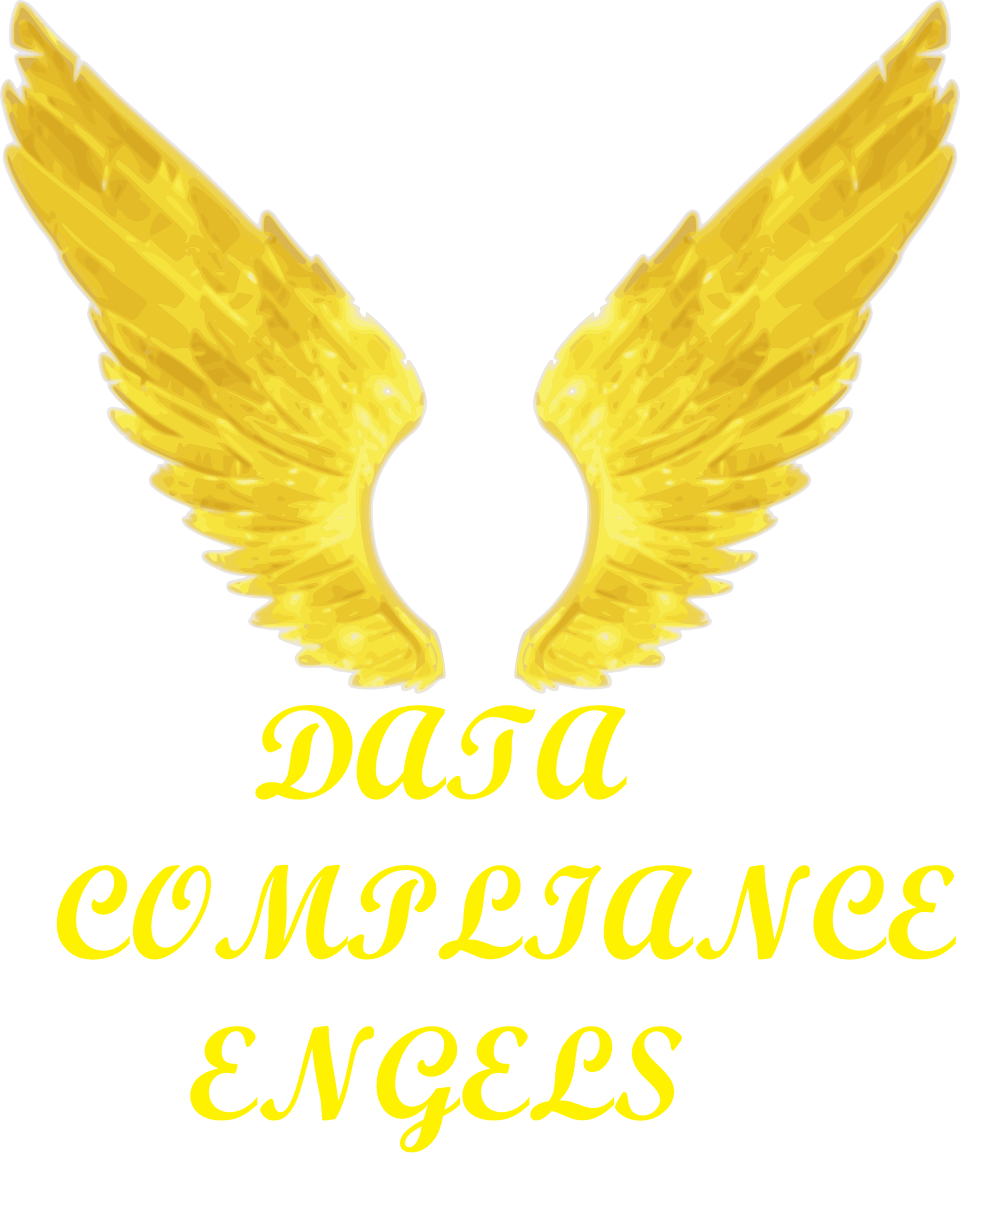
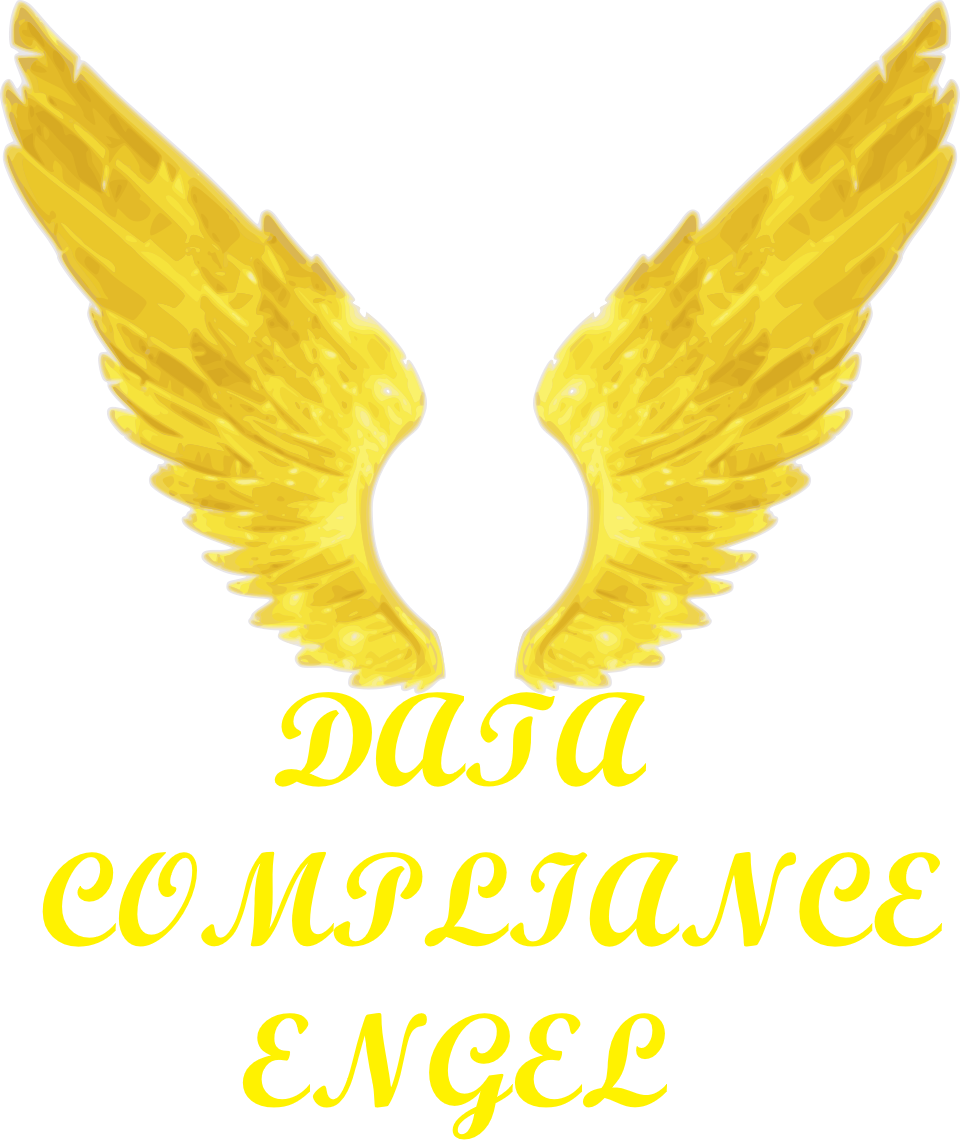
Typo korrigiert
Ein wichtiger Typo korrigiert.

Changed region(s): [[0.0312, 0.0, 1.0, 1.0], [0.0, 0.0306, 0.125, 0.2142], [0.125, 0.1836, 0.1562, 0.2142]]

diff --git a/about.html b/about.html
@@ -2,16 +2,16 @@
 <html lang="de">
 <head>
     <meta charset="UTF-8">
-    <title>Über uns – DataCompliance Engels</title>
+    <title>Über uns – DataCompliance Engel</title>
     <meta name="viewport" content="width=device-width, initial-scale=1.0">
     <link rel="stylesheet" href="style.css">
 </head>
 <body>
 
 <header class="site-header">
-    <img src="CC0AngelIcons-WikiCommons.png" alt="Logo DataCompliance Engels" class="logo">
+    <img src="CC0AngelIcons-WikiCommons.png" alt="Logo DataCompliance Engel" class="logo">
     <div class="header-text">
-        <h1>DataCompliance Engels</h1>
+        <h1>DataCompliance Engel</h1>
         <p>Transparenz. Rechtssicherheit. Einfachheit.</p>
     </div>
 </header>
@@ -25,28 +25,28 @@
 </nav>
 
 <main>
-    <h2>Über DataCompliance Engels</h2>
+    <h2>Über DataCompliance Engel</h2>
 
     <p>
-        DataCompliance Engels ist ein österreichisches Software-Start-Up mit Fokus auf rechtssichere und leicht verständliche Compliance-Lösungen für kleine 
-        und mittlere Unternehmen. DataCompliance Engels hat derzeit 67 Mitarbeitende.
+        DataCompliance Engel ist ein österreichisches Software-Start-Up mit Fokus auf rechtssichere und leicht verständliche Compliance-Lösungen für kleine 
+        und mittlere Unternehmen. DataCompliance Engel hat derzeit 67 Mitarbeitende.
     </p>
 
     <h3>Unsere Marken</h3>
 
     <ul>
-        <li><strong>Wortmarke:</strong> DataCompliance Engels</li>
-        <li><strong>Bildmarke:</strong> Engelsmotiv kombiniert mit dem Firmennamen "DataCompliance Engels" (CC0 Icon)</li>
+        <li><strong>Wortmarke:</strong> DataCompliance Engel</li>
+        <li><strong>Bildmarke:</strong> Engelsmotiv kombiniert mit dem Firmennamen "DataCompliance Engel" (CC0 Icon)</li>
         <li><strong>Farbmarke:</strong> Dunkelblau und Türkis</li>
     </ul>
 
     <p>
-        Der Name „DataCompliance Engels“ steht für einen kontinuierlichen, verständlichen Umgang mit rechtlichen Anforderungen im Unternehmensalltag.
+        Der Name „DataCompliance Engel“ steht für einen kontinuierlichen, verständlichen Umgang mit rechtlichen Anforderungen im Unternehmensalltag.
     </p>
 
     <h3>Wort-Bild-Marke (Logo)</h3>
     <p>
-    Die Wort-Bild-Marke kombiniert das Engelsmotiv aus dem Public-Domain-Bild mit dem Firmennamen DataCompliance Engels. 
+    Die Wort-Bild-Marke kombiniert das Engelsmotiv aus dem Public-Domain-Bild mit dem Firmennamen DataCompliance Engel. 
     Sie symbolisiert Schutz, Vertrauen und Rechtssicherheit im Umgang mit Daten und dient als visuelle Identität meines fiktiven Start-Ups.
     </p>
 

diff --git a/datenschutz.html b/datenschutz.html
@@ -2,15 +2,15 @@
 <html lang="de">
 <head>
     <meta charset="UTF-8">
-    <title>Datenschutz – DataCompliance Engels</title>
+    <title>Datenschutz – DataCompliance Engel</title>
     <link rel="stylesheet" href="style.css">
 </head>
 <body>
 
 <header class="site-header">
-    <img src="CC0AngelIcons-WikiCommons.png" alt="Logo DataCompliance Engels" class="logo">
+    <img src="CC0AngelIcons-WikiCommons.png" alt="Logo DataCompliance Engel" class="logo">
     <div class="header-text">
-        <h1>DataCompliance Engels</h1>
+        <h1>DataCompliance Engel</h1>
         <p>Transparenz. Rechtssicherheit. Einfachheit.</p>
     </div>
 </header>
@@ -28,7 +28,7 @@
     <p>Der Schutz Ihrer personenbezogenen Daten ist uns ein besonderes Anliegen. Wir verarbeiten Ihre Daten ausschließlich auf Grundlage der gesetzlichen Bestimmungen (DSGVO, TKG 2021).</p>
 
     <h3>Verantwortlicher</h3>
-    <p>DataCompliance Engels Software e.U.<br>Wien, Österreich</p>
+    <p>DataCompliance Engel Software e.U.<br>Wien, Österreich</p>
 
     <h3>Kontaktaufnahme</h3>
     <p>Wenn Sie uns per E-Mail kontaktieren, werden die von Ihnen angegebenen Daten zur Bearbeitung Ihrer Anfrage verarbeitet.</p>
@@ -46,7 +46,7 @@
         <li><strong>Recht auf Datenübertragbarkeit:</strong> Sie können die Ihnen betreffenden personenbezogenen Daten in einem strukturierten, gängigen und maschinenlesbaren Format erhalten.</li>
         <li><strong>Recht auf Widerspruch:</strong> Sie können der Verarbeitung Ihrer Daten jederzeit widersprechen, insbesondere bei Direktmarketing.</li>
     </ul>
-    <p>Zur Ausübung Ihrer Rechte können Sie uns jederzeit unter <a href="mailto:info@DataComplianceEngels.at">info@DataComplianceEngels.at</a> kontaktieren.  
+    <p>Zur Ausübung Ihrer Rechte können Sie uns jederzeit unter <a href="mailto:info@DataComplianceEngel.at">info@DataComplianceEngel.at</a> kontaktieren.  
     Sie haben außerdem das Recht, eine Beschwerde bei der österreichischen Datenschutzbehörde einzureichen.</p>
 
     <h3>Zweck und Rechtsgrundlage der Datenverarbeitung</h3>

diff --git a/urheberrecht.html b/urheberrecht.html
@@ -2,15 +2,15 @@
 <html lang="de">
 <head>
     <meta charset="UTF-8">
-    <title>Urheberrecht – DataCompliance Engels</title>
+    <title>Urheberrecht – DataCompliance Engel</title>
     <link rel="stylesheet" href="style.css">
 </head>
 <body>
 
 <header class="site-header">
-    <img src="CC0AngelIcons-WikiCommons.png" alt="Logo DataCompliance Engels" class="logo">
+    <img src="CC0AngelIcons-WikiCommons.png" alt="Logo DataCompliance Engel" class="logo">
     <div class="header-text">
-        <h1>DataCompliance Engels</h1>
+        <h1>DataCompliance Engel</h1>
         <p>Transparenz. Rechtssicherheit. Einfachheit.</p>
     </div>
 </header>
@@ -35,7 +35,7 @@
     <p>
         Sämtliche Texte auf dieser Website wurden selbst erstellt
         und unterliegen dem Urheberrecht des Betreibers
-        (DataCompliance Engels Software e.U.).
+        (DataCompliance Engel Software e.U.).
     </p>
 
     <h3>Schriftarten</h3>
@@ -59,8 +59,8 @@
 
     <h3>Logo</h3>
     <p>
-    Das Logo der fiktiven Firma DataCompliance Engels verwendet ein Bild aus Wikimedia Commons, das unter der Lizenz <strong>CC0 1.0 Universal (Public Domain)</strong> steht. 
-    Das Bild wurde mit dem Text "DataCompliance Engels" kombiniert, um eine eigene Wort-Bild-Marke zu erstellen.
+    Das Logo der fiktiven Firma DataCompliance Engel verwendet ein Bild aus Wikimedia Commons, das unter der Lizenz <strong>CC0 1.0 Universal (Public Domain)</strong> steht. 
+    Das Bild wurde mit dem Text "DataCompliance Engel" kombiniert, um eine eigene Wort-Bild-Marke zu erstellen.
     </p>
     <p>
     Quelle: <a href="https://commons.wikimedia.org/wiki/File:WingsofGold_SVG.svg" target="_blank">Wikimedia Commons Link</a>

diff --git a/shop.html b/shop.html
@@ -2,16 +2,16 @@
 <html lang="de">
 <head>
     <meta charset="UTF-8">
-    <title>Shop – DataCompliance Engels</title>
+    <title>Shop – DataCompliance Engel</title>
     <meta name="viewport" content="width=device-width, initial-scale=1.0">
     <link rel="stylesheet" href="style.css">
 </head>
 <body>
 
 <header class="site-header">
-    <img src="CC0AngelIcons-WikiCommons.png" alt="Logo DataCompliance Engels" class="logo">
+    <img src="CC0AngelIcons-WikiCommons.png" alt="Logo DataCompliance Engel" class="logo">
     <div class="header-text">
-        <h1>DataCompliance Engels</h1>
+        <h1>DataCompliance Engel</h1>
         <p>Transparenz. Rechtssicherheit. Einfachheit.</p>
     </div>
 </header>
@@ -24,12 +24,10 @@
 </nav>
 
 <main>
-    <h2>DataCompliance Engels Abonnement</h2>
+    <h2>DataCompliance Engel Abonnement</h2>
 
     <p>
-        DataCompliance Engels ist eine webbasierte Softwarelösung zur Verwaltung von
-        Datenschutz- und Compliance-Dokumenten für kleine und mittlere
-        Unternehmen in Österreich.
+        DataCompliance Engel ist eine webbasierte Softwarelösung zur Verwaltung von Datenschutz- und Compliance-Dokumenten für kleine und mittlere Unternehmen in Österreich.
     </p>
 
     <h3>Leistungsumfang</h3>

diff --git a/index.html b/index.html
@@ -2,16 +2,16 @@
 <html lang="de">
 <head>
     <meta charset="UTF-8">
-    <title>DataCompliance Engels – Software für KMU</title>
+    <title>DataCompliance Engel – Software für KMU</title>
     <meta name="viewport" content="width=device-width, initial-scale=1.0">
     <link rel="stylesheet" href="style.css">
 </head>
 <body>
 
 <header class="site-header">
-    <img src="CC0AngelIcons-WikiCommons.png" alt="Logo DataCompliance Engels" class="logo">
+    <img src="CC0AngelIcons-WikiCommons.png" alt="Logo DataCompliance Engel" class="logo">
     <div class="header-text">
-        <h1>DataCompliance Engels</h1>
+        <h1>DataCompliance Engel</h1>
         <p>Transparenz. Rechtssicherheit. Einfachheit.</p>
     </div>
 </header>
@@ -24,9 +24,9 @@
 </nav>
 
 <main>
-    <h2>Willkommen bei DataCompliance Engels Compliance</h2>
+    <h2>Willkommen bei DataCompliance Engel Compliance</h2>
     <p>
-        DataCompliance Engels Compliance ist eine webbasierte Softwarelösung zur Verwaltung von Datenschutz- und Compliance-Dokumenten für KMU in Österreich.
+        DataCompliance Engel ist eine webbasierte Softwarelösung zur Verwaltung von Datenschutz- und Compliance-Dokumenten für KMU in Österreich.
     </p>
 
     <p>

diff --git a/impressum.html b/impressum.html
@@ -2,15 +2,15 @@
 <html lang="de">
 <head>
     <meta charset="UTF-8">
-    <title>Impressum – DataCompliance Engels</title>
+    <title>Impressum – DataCompliance Engel</title>
     <link rel="stylesheet" href="style.css">
 </head>
 <body>
 
 <header class="site-header">
-    <img src="CC0AngelIcons-WikiCommons.png" alt="Logo DataCompliance Engels" class="logo">
+    <img src="CC0AngelIcons-WikiCommons.png" alt="Logo DataCompliance Engel" class="logo">
     <div class="header-text">
-        <h1>DataCompliance Engels</h1>
+        <h1>DataCompliance Engel</h1>
         <p>Transparenz. Rechtssicherheit. Einfachheit.</p>
     </div>
 </header>
@@ -27,7 +27,7 @@
     <h2>Impressum</h2>
 
     <p><strong>Medieninhaber und Betreiber:</strong><br>
-    DataCompliance Engels Software e.U.</p>
+    DataCompliance Engel Software e.U.</p>
 
     <p><strong>Adresse:</strong><br>
     Musterstraße 67, 1010 Wien, Österreich</p>
@@ -36,7 +36,7 @@
     Entwicklung und Vertrieb von Softwarelösungen</p>
 
     <p><strong>Kontakt:</strong><br>
-    E-Mail: kontakt@DataComplianceEngels-demo.at</p>
+    E-Mail: kontakt@DataComplianceEngel-demo.at</p>
 
     <p><strong>Aufsichtsbehörde:</strong><br>
     Magistrat der Stadt Wien</p>

diff --git a/kontakt.html b/kontakt.html
@@ -2,16 +2,16 @@
 <html lang="de">
 <head>
     <meta charset="UTF-8">
-    <title>Kontakt – DataCompliance Engels</title>
+    <title>Kontakt – DataCompliance Engel</title>
     <meta name="viewport" content="width=device-width, initial-scale=1.0">
     <link rel="stylesheet" href="style.css">
 </head>
 <body>
 
 <header class="site-header">
-    <img src="CC0AngelIcons-WikiCommons.png" alt="Logo DataCompliance Engels" class="logo">
+    <img src="CC0AngelIcons-WikiCommons.png" alt="Logo DataCompliance Engel" class="logo">
     <div class="header-text">
-        <h1>DataCompliance Engels</h1>
+        <h1>DataCompliance Engel</h1>
         <p>Transparenz. Rechtssicherheit. Einfachheit.</p>
     </div>
 </header>
@@ -27,14 +27,14 @@
     <h2>Kontaktieren Sie uns</h2>
 
     <p>
-        DataCompliance Engels Software e.U.<br>
+        DataCompliance Engel Software e.U.<br>
         Musterstraße 67<br>
         1010 Wien<br>
         Österreich
     </p>
 
     <p>
-        E-Mail: kontakt@DataComplianceEngels-demo.at<br>
+        E-Mail: kontakt@DataComplianceEngel-demo.at<br>
         Telefon: +43 1 234 67 89
     </p>
 

diff --git a/lizenz.html b/lizenz.html
@@ -2,15 +2,15 @@
 <html lang="de">
 <head>
     <meta charset="UTF-8">
-    <title>Lizenz – DataCompliance Engels</title>
+    <title>Lizenz – DataCompliance Engel</title>
     <link rel="stylesheet" href="style.css">
 </head>
 <body>
 
 <header class="site-header">
-    <img src="CC0AngelIcons-WikiCommons.png" alt="Logo DataCompliance Engels" class="logo">
+    <img src="CC0AngelIcons-WikiCommons.png" alt="Logo DataCompliance Engel" class="logo">
     <div class="header-text">
-        <h1>DataCompliance Engels</h1>
+        <h1>DataCompliance Engel</h1>
         <p>Transparenz. Rechtssicherheit. Einfachheit.</p>
     </div>
 </header>
@@ -26,7 +26,7 @@
     <h2>Lizenzbedingungen</h2>
 
     <p>
-        Mit dem Erwerb eines DataCompliance Engels-Abonnements erhalten Sie ein einfaches,
+        Mit dem Erwerb eines DataCompliance Engel-Abonnements erhalten Sie ein einfaches,
         nicht übertragbares Nutzungsrecht an der Software.
     </p>
 

diff --git a/barrierefreiheit.html b/barrierefreiheit.html
@@ -2,15 +2,15 @@
 <html lang="de">
 <head>
     <meta charset="UTF-8">
-    <title>Barrierefreiheit – DataCompliance Engels</title>
+    <title>Barrierefreiheit – DataCompliance Engel</title>
     <link rel="stylesheet" href="style.css">
 </head>
 <body>
 
 <header class="site-header">
-    <img src="CC0AngelIcons-WikiCommons.png" alt="Logo DataCompliance Engels" class="logo">
+    <img src="CC0AngelIcons-WikiCommons.png" alt="Logo DataCompliance Engel" class="logo">
     <div class="header-text">
-        <h1>DataCompliance Engels</h1>
+        <h1>DataCompliance Engel</h1>
         <p>Transparenz. Rechtssicherheit. Einfachheit.</p>
     </div>
 </header>
@@ -37,7 +37,7 @@
 
     <p>
         Feedback zur Barrierefreiheit:
-        kontakt@DataComplianceEngels-demo.at
+        kontakt@DataComplianceEngel-demo.at
     </p>
 
     <p>
